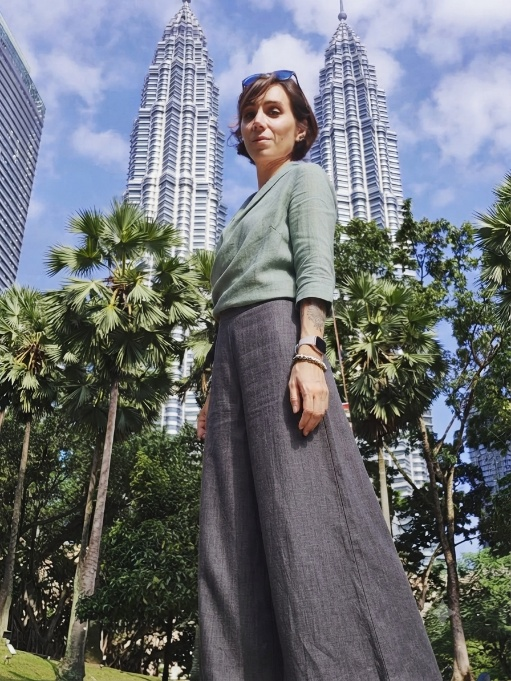
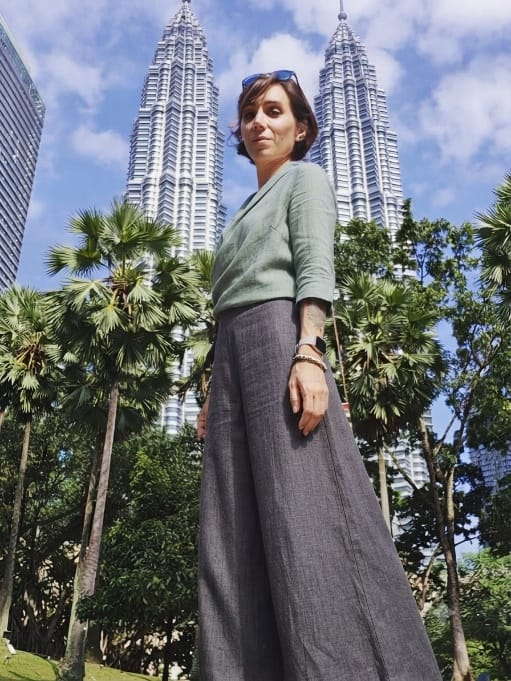
Faster admin: lighter photos, unused photos archived, faster CMS download

Changed region(s): [[0.9393, 0.4009, 0.9687, 0.4317]]

diff --git a/admin/index.html b/admin/index.html
@@ -5,9 +5,11 @@
   <meta name="viewport" content="width=device-width, initial-scale=1.0" />
   <meta name="robots" content="noindex" />
   <title>Site Admin — Reflecting Journeys</title>
+  <link rel="preconnect" href="https://cdn.jsdelivr.net" crossorigin />
+  <link rel="preconnect" href="https://api.github.com" crossorigin />
 </head>
 <body>
   <!-- Decap CMS renders the full admin UI here -->
-  <script src="https://unpkg.com/decap-cms@3.17.3/dist/decap-cms.js"></script>
+  <script src="https://cdn.jsdelivr.net/npm/decap-cms@3.17.3/dist/decap-cms.js"></script>
 </body>
 </html>

diff --git a/SETUP-GUIDE.md b/SETUP-GUIDE.md
@@ -70,3 +70,7 @@ keys (the admin-login secret is stored only in Netlify).
   for returning visitors — give new photos a new file name.
 - The home page **preloads its top photo** (`index.html` head). If that photo is
   changed in the admin panel, update the preload line to match.
+- The admin panel's photo library shows everything in `images/uploads/`, so
+  only photos in use are kept there. Unused photos are kept in `images/archive/`
+  (e.g. the Reiki photo crop and the old home-page photo) — move one back into
+  `images/uploads/` to make it available in the admin panel again.
